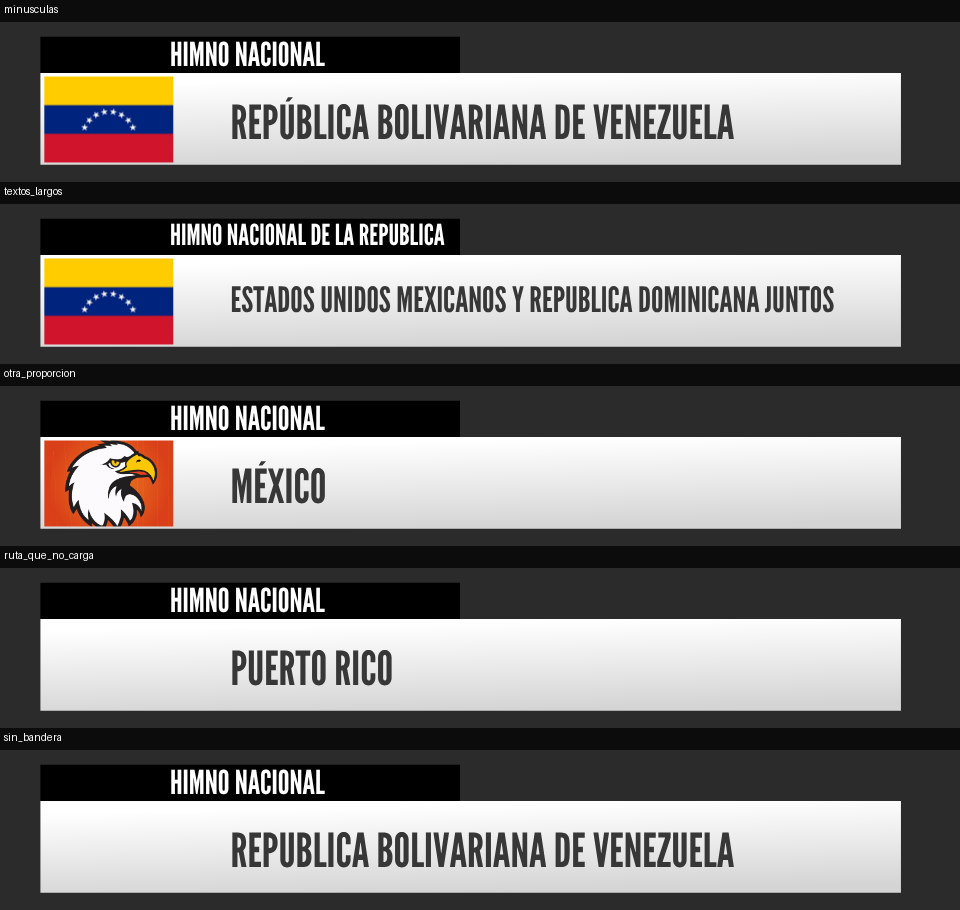
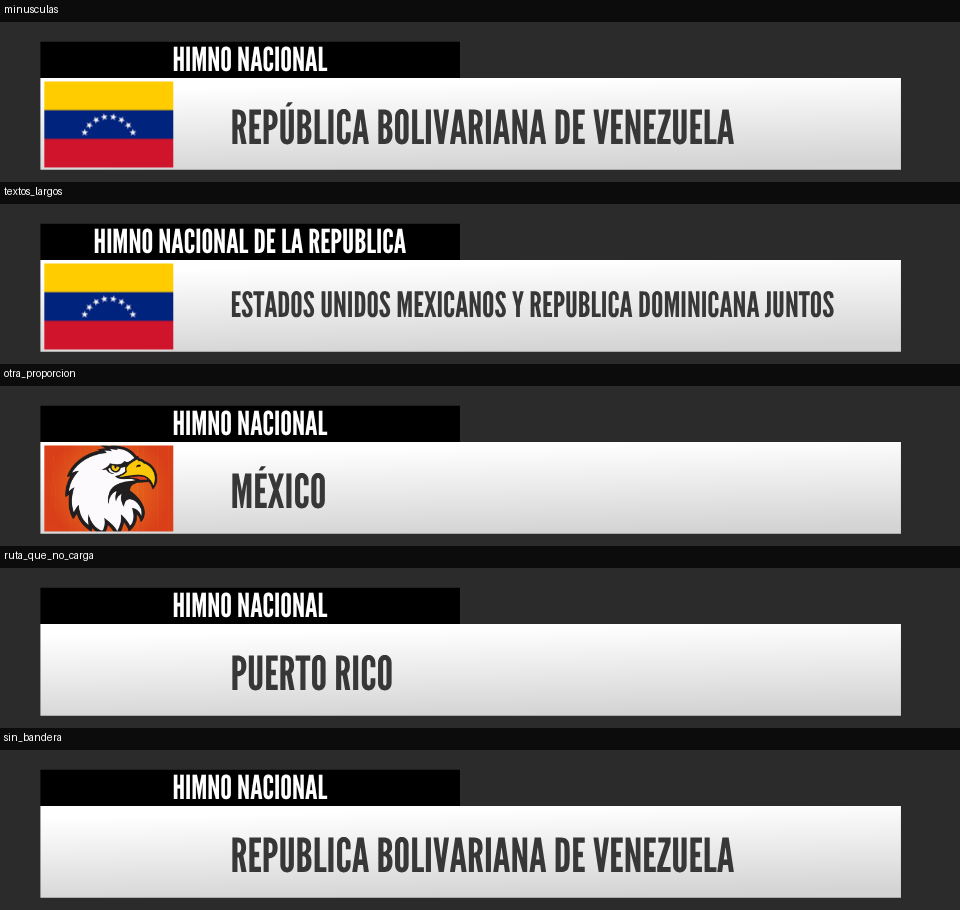
Himno nacional: el título centrado en la pestaña negra
Llegaba alineado a la izquierda desde la x 610 en una pestaña que va de la
479,6 a la 900: un título corto quedaba corrido. Va centrado, con la caja a
10 px de cada borde. Capturas regeneradas en CasparCG 2.5.1.

Claude-Session: https://claude.ai/code/session_01R7cr9TftaPfE8mLox8V7d5

diff --git a/herramientas/prep.js b/herramientas/prep.js
@@ -946,11 +946,17 @@ if (hay('himno nacional')) {
     pais.t = pais.t.trim();
     pais.ps[0] += ESPACIO_HIMNO;
     pais.sz[0] = 613.34;
-    // HIMNO NACIONAL: la caja llegaba 31 px afuera de la pestaña negra (termina en x 899.96) y uno
-    // más largo se salía antes de encoger. Termina 10 px antes del borde.
-    const titulo = rename(d, '.informacionbarranegra', 'titulo').t.d.k[0].s;
+    // HIMNO NACIONAL: llegaba alineado a la izquierda desde la x 610, en una pestaña negra que va de
+    // la x 479.6 a la 899.96 (un título corto quedaba corrido), y la caja pasaba 31 px el borde.
+    // Va centrado en la pestaña (Leon, 2026-10-26), con la caja a 10 px de cada borde.
+    const capaTitulo = rename(d, '.informacionbarranegra', 'titulo');
+    const titulo = capaTitulo.t.d.k[0].s;
     if (titulo.j !== 0) throw new Error('himno: el título no está alineado a la izquierda');
-    titulo.sz[0] = 280.02;
+    if (capaTitulo.parent || capaTitulo.ks.p.a || capaTitulo.ks.s.k[0] !== 100) throw new Error('himno: el título se movió');
+    const PESTANA = [479.6, 899.96];
+    titulo.j = 2;
+    titulo.sz[0] = PESTANA[1] - PESTANA[0] - 20;
+    titulo.ps[0] = PESTANA[0] + 10 - capaTitulo.ks.p.k[0];
     // La bandera (clase "svg webp", que no es una clase válida) pasa a ser una imagen reemplazable.
     // El export trae la bandera a 3840 × 2560 (330 KB) para dibujarla a 129 × 86: el asset sigue
     // con ese tamaño (Lottie escala cualquier archivo a esa caja) y el archivo es

diff --git a/CLAUDE.md b/CLAUDE.md
@@ -35,7 +35,7 @@ defecto; las de
 `prevenido`, del 2026-10-07; las de `final`, del 2026-10-10; las de `placa_juego`, del
 2026-10-24, con la caja del VS; las de `parcial`, `parcial_equipos.png` del 2026-10-07 y `parcial.png` del 2026-10-21,
 con la publicidad por defecto; las de `duelo_lanzadores`, del 2026-10-24, con la foto de ejemplo en
-`duelo_lanzadores.png`; las de `himno_nacional`, del 2026-10-26: `himno_nacional_variantes.png`
+`duelo_lanzadores.png`; las de `himno_nacional`, del 2026-10-26, sacadas de CasparCG 2.5.1: `himno_nacional_variantes.png`
 muestra minúsculas, textos largos, una bandera de otra proporción, una ruta que no carga y `""`): si un
 gráfico cambia, hay que regenerarlas. No entran al zip (`.gitattributes`).
 
@@ -251,7 +251,7 @@ Cada export de AE trae los nombres crudos y hay que repetir la preparación. Bus
   px de aire a cada lado en la columna del centro; en `himno_nacional`, `texto` sin el espacio con
   que llega adelante (` REPUBLICA…`) y la caja corrida ese ancho (7.234: el texto del diseño queda en
   el mismo píxel), terminando a 57 px del final de la barra blanca, el aire que deja la bandera
-  (613.34), y `titulo` a 280.02, 10 px antes del borde de la pestaña negra (llegaba 31 px afuera). Los anchos de nombre dejan el mismo aire a los dos lados.
+  (613.34), y `titulo` centrado en la pestaña negra (Leon, 2026-10-26: llegaba alineado a la izquierda desde la x 610 y un título corto quedaba corrido), con la caja a 10 px de cada borde (400.36; llegaba 31 px afuera). Los anchos de nombre dejan el mismo aire a los dos lados.
 - **`defensiva_lateral`** no está en `prep.js`: es el export del 2026-09-26 ya preparado
   (`git show 0fd3d66:defensiva/`), con el All Caps prendido y `play`/`salida` en el 78 (ahí termina
   la entrada; el export la pausaba en el 90). Si el diseñador la vuelve a exportar, es la receta

diff --git a/himno_nacional/data.md b/himno_nacional/data.md
@@ -53,7 +53,7 @@ exactly. Send `""` to leave the box empty (the white bar shows behind it).
 
 `texto` and `titulo` are box text: a longer string shrinks to fit instead of overflowing. `texto`
 fits about 40 characters at the design size (`REPUBLICA BOLIVARIANA DE VENEZUELA` is 34) and
-`titulo` about 25 (`HIMNO NACIONAL` is 14); longer goes smaller, in one line.
+`titulo` about 40 (`HIMNO NACIONAL` is 14), centered in the black tab; longer goes smaller, in one line.
 
 | Class | Default text |
 |-------|-------------|
